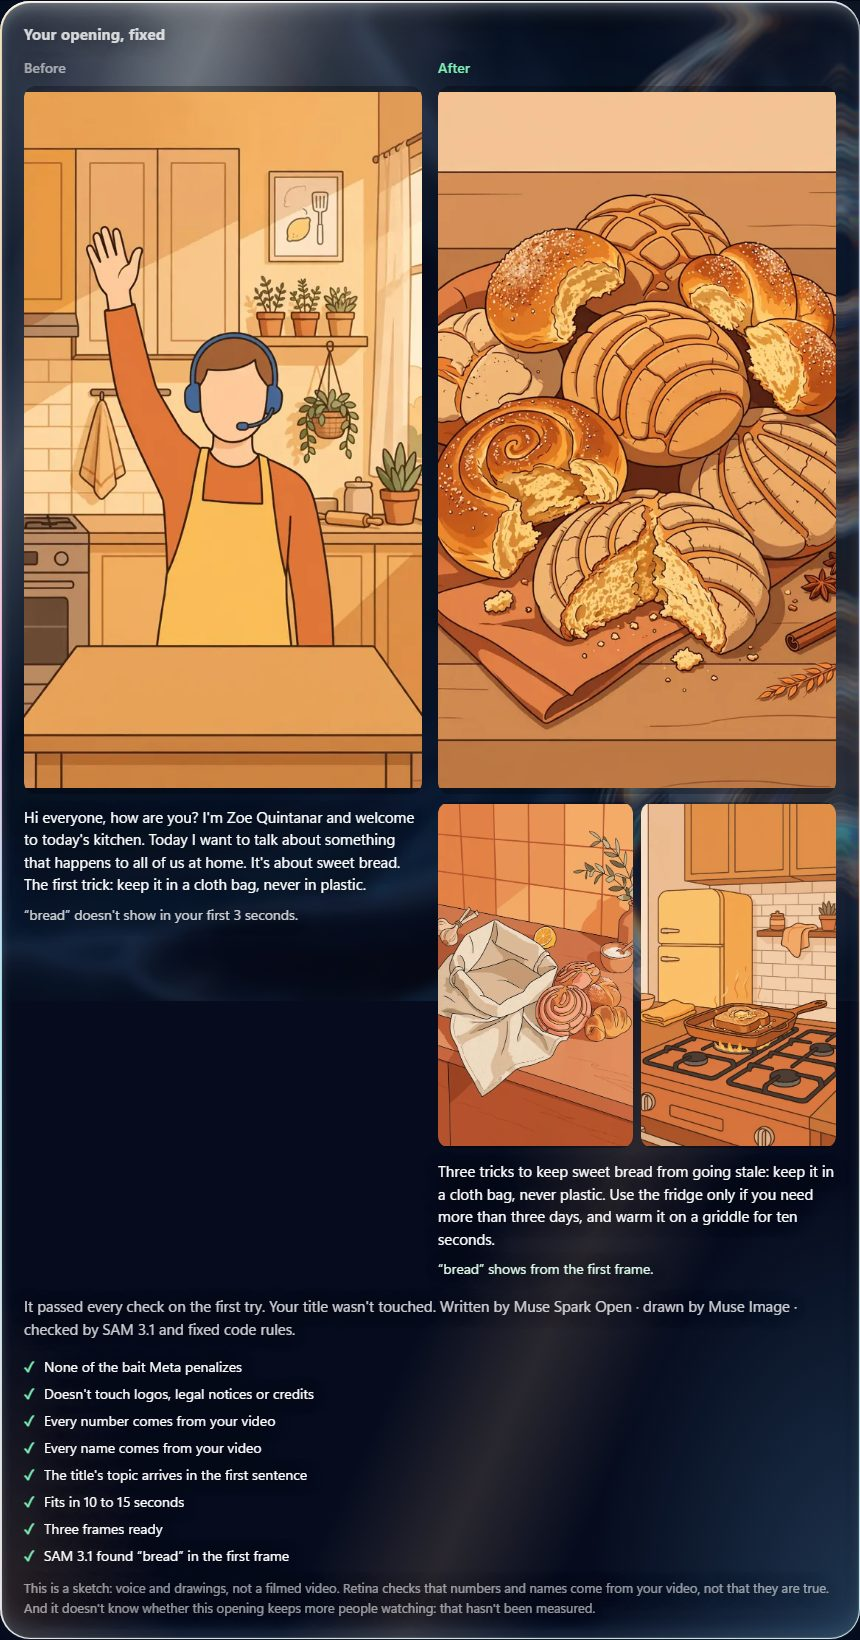
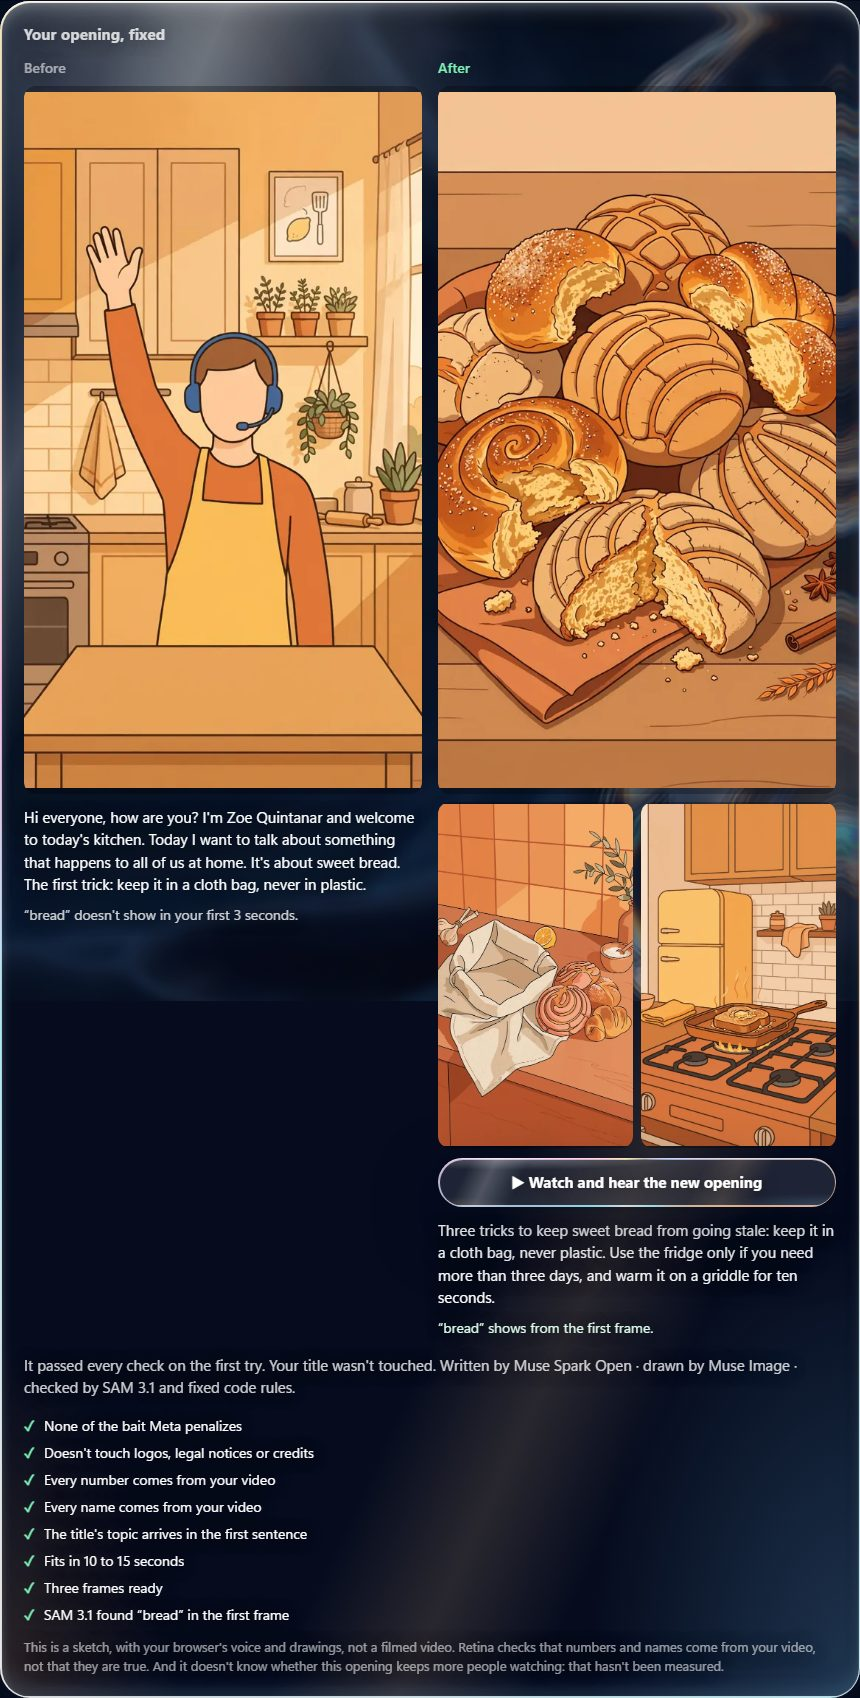
El arranque nuevo se ve y se oye, el número sirve en videos cortos y el mensaje abre con la retención
Salió del análisis de las presentaciones del concurso: nadie más menciona retención. A los 3 segundos un video corto siempre
daba 100 de 100; ahora se mide a la mitad del video. Voz del navegador, sin modelos nuevos.

diff --git a/panel/index.html b/panel/index.html
@@ -276,6 +276,10 @@ h2 { font-size: 15px; font-weight: 650; margin: 0 0 12px; color: var(--suave); l
 .lado .promesa { margin: 8px 0 0; font-size: 14px; color: var(--suave); }
 .lado.nuevo .promesa { color: var(--verde-letra); }
 .primero { color: var(--verde); }
+.visor { position: relative; }
+.subtitulo { position: absolute; left: 8px; right: 8px; bottom: 10px; margin: 0; padding: 6px 10px; border-radius: 10px;
+  background: rgba(0,0,0,.74); color: #fff; font-size: 15px; line-height: 1.35; text-align: center; }
+.reproducir { margin-top: 10px; width: 100%; }
 .resumen-apertura { margin: 16px 0 0; font-size: 15px; color: var(--suave); }
 .lista-comprobada { list-style: none; margin: 16px 0 0; padding: 0; display: grid; gap: 6px; font-size: 14px; }
 .lista-comprobada li { display: grid; grid-template-columns: 20px 1fr; }
@@ -471,7 +475,7 @@ details summary { cursor: pointer; font-weight: 650; color: var(--suave); }
           <div class="antes-despues oculto" id="antes-despues"></div>
           <p class="resumen-apertura oculto" id="apertura-resumen"></p>
           <ul class="lista-comprobada oculto" id="apertura-comprobada"></ul>
-          <p class="nota oculto" id="apertura-nota" data-t="apertura_nota">Es un boceto: voz y dibujos, no un video grabado. Retina comprueba que las cifras y los nombres salgan de tu video, no que sean ciertos. Y no sabe si esta apertura hará que se quede más gente: eso no se ha medido.</p>
+          <p class="nota oculto" id="apertura-nota" data-t="apertura_nota">Es un boceto, con la voz de tu navegador y dibujos, no un video grabado. Retina comprueba que las cifras y los nombres salgan de tu video, no que sean ciertos. Y no sabe si esta apertura hará que se quede más gente: eso no se ha medido.</p>
         </div>
 
         <div class="cifras" id="cifras"></div>
@@ -688,6 +692,7 @@ const TEXTOS = {
     normas_con: (n) => (n === 1 ? "Encontré 1 punto que conviene revisar antes de publicar:" : `Encontré ${n} puntos que conviene revisar antes de publicar:`),
     empieza_aqui: "Empieza por este.",
     por_que_importa: "Por qué importa: en 30 mil videos de una página grande de Facebook, los que mejor retuvieron su primer cuarto llegaron a unas 3.5 veces más gente. Es una relación, no una promesa.",
+    ver_arranque: "▶ Ver y oír el arranque nuevo", parar_arranque: "■ Parar",
     apertura_t: "Tu arranque, arreglado",
     apertura_lema: "Retina reescribe tus primeros 10 a 15 segundos, los dibuja y comprueba que cumplan lo que promete el título. El título no se toca.",
     arreglar: "Arreglar mi arranque (unos USD 0.10)",
@@ -704,7 +709,7 @@ const TEXTOS = {
     apertura_incompleta: () => "Pasó las reglas de texto, pero SAM 3.1 no pudo revisar el primer cuadro. El título no se tocó.",
     apertura_no: "No logré una apertura que pasara todas las comprobaciones, así que no te enseño ninguna. Esto fue lo que falló:",
     apertura_quien: (m) => `Escribió ${m} · dibujó Muse Image · revisaron SAM 3.1 y reglas fijas de código.`,
-    apertura_nota: "Es un boceto: voz y dibujos, no un video grabado. Retina comprueba que las cifras y los nombres salgan de tu video, no que sean ciertos. Y no sabe si esta apertura hará que se quede más gente: eso no se ha medido.",
+    apertura_nota: "Es un boceto, con la voz de tu navegador y dibujos, no un video grabado. Retina comprueba que las cifras y los nombres salgan de tu video, no que sean ciertos. Y no sabe si esta apertura hará que se quede más gente: eso no se ha medido.",
     apertura_error: "No se pudo terminar. Intenta otra vez.",
     apertura_editor: "Arranque nuevo (lo que se dice): ",
     comprobada: { anzuelos: "Sin los anzuelos que Meta castiga", intocables: "No toca logos, avisos legales ni créditos", cifras: "Cada cifra sale de tu video",
@@ -886,6 +891,7 @@ const TEXTOS = {
     normas_con: (n) => (n === 1 ? "I found 1 point worth checking before you publish:" : `I found ${n} points worth checking before you publish:`),
     empieza_aqui: "Start here.",
     por_que_importa: "Why it matters: across 30,000 videos from a large Facebook page, the ones that best held their first quarter reached about 3.5 times more people. That's a relation, not a promise.",
+    ver_arranque: "▶ Watch and hear the new opening", parar_arranque: "■ Stop",
     apertura_t: "Your opening, fixed",
     apertura_lema: "Retina rewrites your first 10 to 15 seconds, draws them and checks that they deliver what the title promises. Your title stays as it is.",
     arreglar: "Fix my opening (about USD 0.10)",
@@ -902,7 +908,7 @@ const TEXTOS = {
     apertura_incompleta: () => "It passed the text rules, but SAM 3.1 couldn't check the first frame. Your title wasn't touched.",
     apertura_no: "I couldn't get an opening to pass every check, so I'm not showing you one. This is what failed:",
     apertura_quien: (m) => `Written by ${m} · drawn by Muse Image · checked by SAM 3.1 and fixed code rules.`,
-    apertura_nota: "This is a sketch: voice and drawings, not a filmed video. Retina checks that numbers and names come from your video, not that they are true. And it doesn't know whether this opening keeps more people watching: that hasn't been measured.",
+    apertura_nota: "This is a sketch, with your browser's voice and drawings, not a filmed video. Retina checks that numbers and names come from your video, not that they are true. And it doesn't know whether this opening keeps more people watching: that hasn't been measured.",
     apertura_error: "It couldn't be finished. Try again.",
     apertura_editor: "New opening (what is said): ",
     comprobada: { anzuelos: "None of the bait Meta penalizes", intocables: "Doesn't touch logos, legal notices or credits", cifras: "Every number comes from your video",
@@ -1031,9 +1037,12 @@ function en(curva, dur, s) {  // la curva tiene 41 puntos repartidos en toda la 
 
 const conReal = (r) => r.realidad && Array.isArray(r.realidad.curva) && r.realidad.curva.length === 41;
 
+// En un video corto casi nadie se va en los primeros segundos: «100 de 100 a los 3 segundos» no diría nada.
+const momentoPrincipal = (dur) => (dur >= 30 ? 15 : Math.max(3, Math.round(dur / 2)));
+
 function cifras(r) {
   // Lo principal en una frase, con 100 personas dibujadas; los otros dos momentos, con barras.
-  const p = r.prediccion, dur = r.video.duracion_s, fin = dur / 4, s = dur >= 30 ? 15 : 3;
+  const p = r.prediccion, dur = r.video.duracion_s, fin = dur / 4, s = momentoPrincipal(dur);
   const en100 = (c, x) => Math.round(100 * en(c, dur, x));
   const tuyo = en100(p.curva_predicha, s), otros = en100(p.curva_parecidos, s), dif = tuyo - otros;
   const miles = (n) => (n * 100).toLocaleString(idioma === "en" ? "en-US" : "es-MX");
@@ -1084,7 +1093,7 @@ function cifras(r) {
       Math.abs(d) <= 1 ? t("momento_igual") : t(d < 0 ? "momento_menos" : "momento_mas", Math.abs(d))));
     return caja;
   };
-  const otrosMomentos = [...(s !== 3 ? [momento(3, t("momento_a", 3))] : []), momento(fin, t("momento_fin", mmss(fin)))];
+  const otrosMomentos = [...(dur >= 30 ? [momento(3, t("momento_a", 3))] : []), momento(fin, t("momento_fin", mmss(fin)))];
   $("cifras").className = "cifras";
   $("cifras").replaceChildren(principal, ...otrosMomentos);
 }
@@ -1272,6 +1281,39 @@ function revisado(r) {
   }));
 }
 
+// El «después» se ve y se oye: los tres cuadros con el texto nuevo, leído con la voz del navegador (no es un modelo de IA).
+let arranqueSonando = null;
+function pararArranque() { if (arranqueSonando) arranqueSonando(); }
+
+function tercios(texto) {
+  const palabras = texto.split(/\s+/).filter(Boolean), n = Math.ceil(palabras.length / 3);
+  return [0, 1, 2].map((i) => palabras.slice(i * n, (i + 1) * n).join(" "));
+}
+
+function reproducirArranque(a, fotos, img, subtitulo, boton) {
+  if (arranqueSonando) return pararArranque();
+  const voz = a.despues.voz, partes = tercios(voz), porParte = (voz.split(/\s+/).length / 2.6) * 1000 / 3;
+  const habla = "speechSynthesis" in window ? window.speechSynthesis : null;
+  if (habla) {
+    const decir = new SpeechSynthesisUtterance(voz);
+    decir.lang = /ingl/i.test(a.idioma || "") ? "en-US" : "es-MX";
+    habla.cancel(); habla.speak(decir);
+  }
+  let i = 0, reloj_ = null;
+  arranqueSonando = () => {
+    clearTimeout(reloj_); if (habla) habla.cancel();
+    img.src = fotos[0]; subtitulo.classList.add("oculto"); boton.textContent = t("ver_arranque");
+    arranqueSonando = null;
+  };
+  const paso = () => {
+    if (i >= 3) return pararArranque();
+    img.src = fotos[i]; subtitulo.textContent = partes[i]; i += 1;
+    reloj_ = setTimeout(paso, porParte);
+  };
+  boton.textContent = t("parar_arranque"); subtitulo.classList.remove("oculto");
+  paso();
+}
+
 function ladoApertura(clase, titulo, hijos) {
   const lado = nodo("div", `lado ${clase}`);
   lado.append(nodo("h3", "", titulo), ...hijos);
@@ -1279,6 +1321,7 @@ function ladoApertura(clase, titulo, hijos) {
 }
 
 function pintarApertura(r) {
+  pararArranque();
   const a = r.apertura, idCaso = carpeta && /^\/casos\/([0-9a-f]{12})\/$/.exec(carpeta.pathname);
   const puede = !!(conSubida && idCaso && r.explicacion), hecha = !!(a && a.despues && a.aprobada);
   $("bloque-apertura").classList.toggle("oculto", !a && !puede);
@@ -1301,14 +1344,24 @@ function pintarApertura(r) {
   const hijosAntes = [imgAntes, nodo("p", "voz", antes.voz || t("sin_voz_antes"))];
   if (promesa) hijosAntes.push(nodo("p", "promesa", promesa.aparece ? t("promesa_si", promesa.concepto, promesa.primer_segundo) : t("promesa_no", promesa.concepto)));
   if (hecha) {
-    const [primera, ...otras] = (a.despues.imagenes || []).map(delCaso).map((u, i) => {
+    const fotos = (a.despues.imagenes || []).map(delCaso);
+    const [primera, ...otras] = fotos.map((u, i) => {
       if (!u) return nodo("div", "sin-imagen", a.despues.cuadros[i] || "");
       const img = nodo("img"); img.src = u; img.alt = t("alt_ia", a.despues.cuadros[i] || ""); img.title = a.despues.cuadros[i] || "";
       return img;
     });
     const miniaturas = nodo("div", "miniaturas");
     miniaturas.append(...otras);
-    const hijosDespues = [primera, miniaturas, nodo("p", "voz", a.despues.voz)];
+    const visor = nodo("div", "visor"), subtitulo = nodo("p", "subtitulo oculto");
+    visor.append(primera, subtitulo);
+    const hijosDespues = [visor, miniaturas];
+    if (fotos.length === 3 && fotos.every(Boolean)) {
+      const play = nodo("button", "boton vidrio reproducir", t("ver_arranque"));
+      play.type = "button"; play.id = "reproducir";
+      play.onclick = () => reproducirArranque(a, fotos, primera, subtitulo, play);
+      hijosDespues.push(play);
+    }
+    hijosDespues.push(nodo("p", "voz", a.despues.voz));
     if (revision && revision.paso) hijosDespues.push(nodo("p", "promesa", t("promesa_nueva", objeto)));
     $("antes-despues").replaceChildren(ladoApertura("", t("antes"), hijosAntes), ladoApertura("nuevo", t("despues"), hijosDespues));
   }
@@ -1765,7 +1818,7 @@ function pintarComparacion({ a, b, ra, rb, c, fallaComparar }) {
   $("c-tabla").replaceChildren(...celdas);
 
   // Los números casi no cambian entre versiones: se dicen, con el porqué, para que nadie los lea como ganador.
-  const s = Math.min(ra.video.duracion_s, rb.video.duracion_s) >= 30 ? 15 : 3;
+  const s = momentoPrincipal(Math.min(ra.video.duracion_s, rb.video.duracion_s));
   const cuantos = (r) => r.prediccion ? Math.round(100 * en(r.prediccion.curva_predicha, r.video.duracion_s, s)) : "—";
   $("c-numeros").textContent = t("numeros_ab", s, cuantos(ra), cuantos(rb));
 

diff --git a/README.md b/README.md
@@ -1,19 +1,19 @@
 # Retina
 
-**Retina doesn't stop at a score: it rewrites your video's opening, draws it and checks the fix before you publish.**
+**Retina estimates how many people will stay, then rewrites your opening and checks the fix before you publish.**
 
 ![Retina's before and after for a made-up example video: the draft opens with a greeting and no bread in sight; the new opening shows the bread from the first frame, with the list of checks it passed](docs/img/retina-example-card.jpg)
 
 *The picture above is a made-up example (no real video), with drawings by Muse Image. Open it yourself in one
 minute, with no key: see "Try it in one minute" below.*
 
-**What makes it different.** A tool that only reads a video stops at a description or a grade. Retina's output is a new opening,
+**What makes it different.** Retina starts from retention, using what about 30,000 real videos taught it about when people leave. Then
+it acts: a tool that only reads a video stops at a description or a grade, and Retina's output is a new opening you can watch and hear,
 and its core is a rule engine and a verification loop around Meta's models: the rules run in code, after the model, and send the
 work back with the exact list of what failed. SAM 3.1 then has to find what the title promises inside the frame Muse Image drew. One
 prompt to one model cannot do this.
 
-It also estimates how many of 100 people may still be watching, compared with videos like yours, and checks the whole video
-against Facebook's public rules, with the second and the words behind each warning.
+It also checks the whole video against Facebook's public rules, with the second and the words behind each warning.
 
 How the opening gets fixed:
 
@@ -28,7 +28,8 @@ How the opening gets fixed:
    closed list of objects and places, never people.
 6. **Correct.** If anything fails, Spark Open receives the exact list of failures and tries again, up to twice. What does
    not pass never reaches you.
-7. **Before and after.** You see your opening next to the new one, with the two remaining frames and every check it passed.
+7. **Before and after.** You see your opening next to the new one, press play to watch the frames and hear the new words in your
+   browser's voice, and see every check it passed.
 
 Three limits we say out loud. **The number is a modest reference**, not a promise: it barely beats the average for videos
 of the same length, and it cannot compare two versions of one video, so Retina shows no number for the new opening. **The
